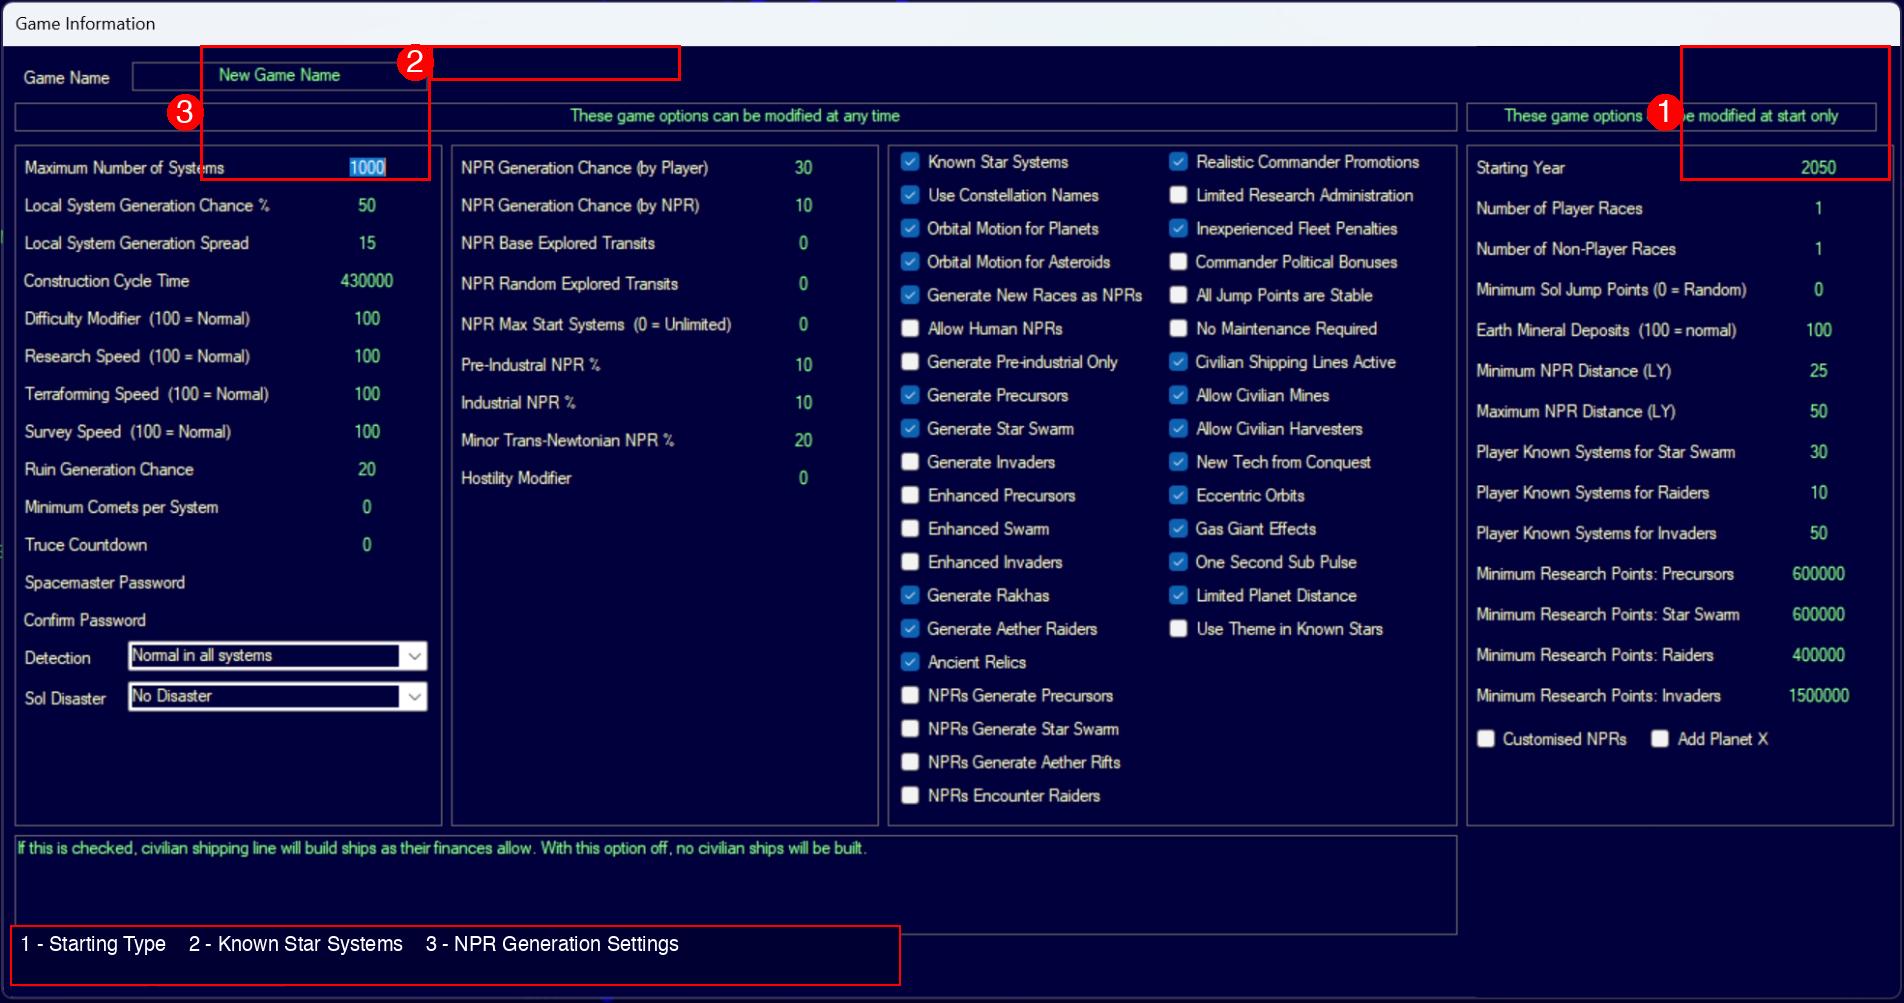
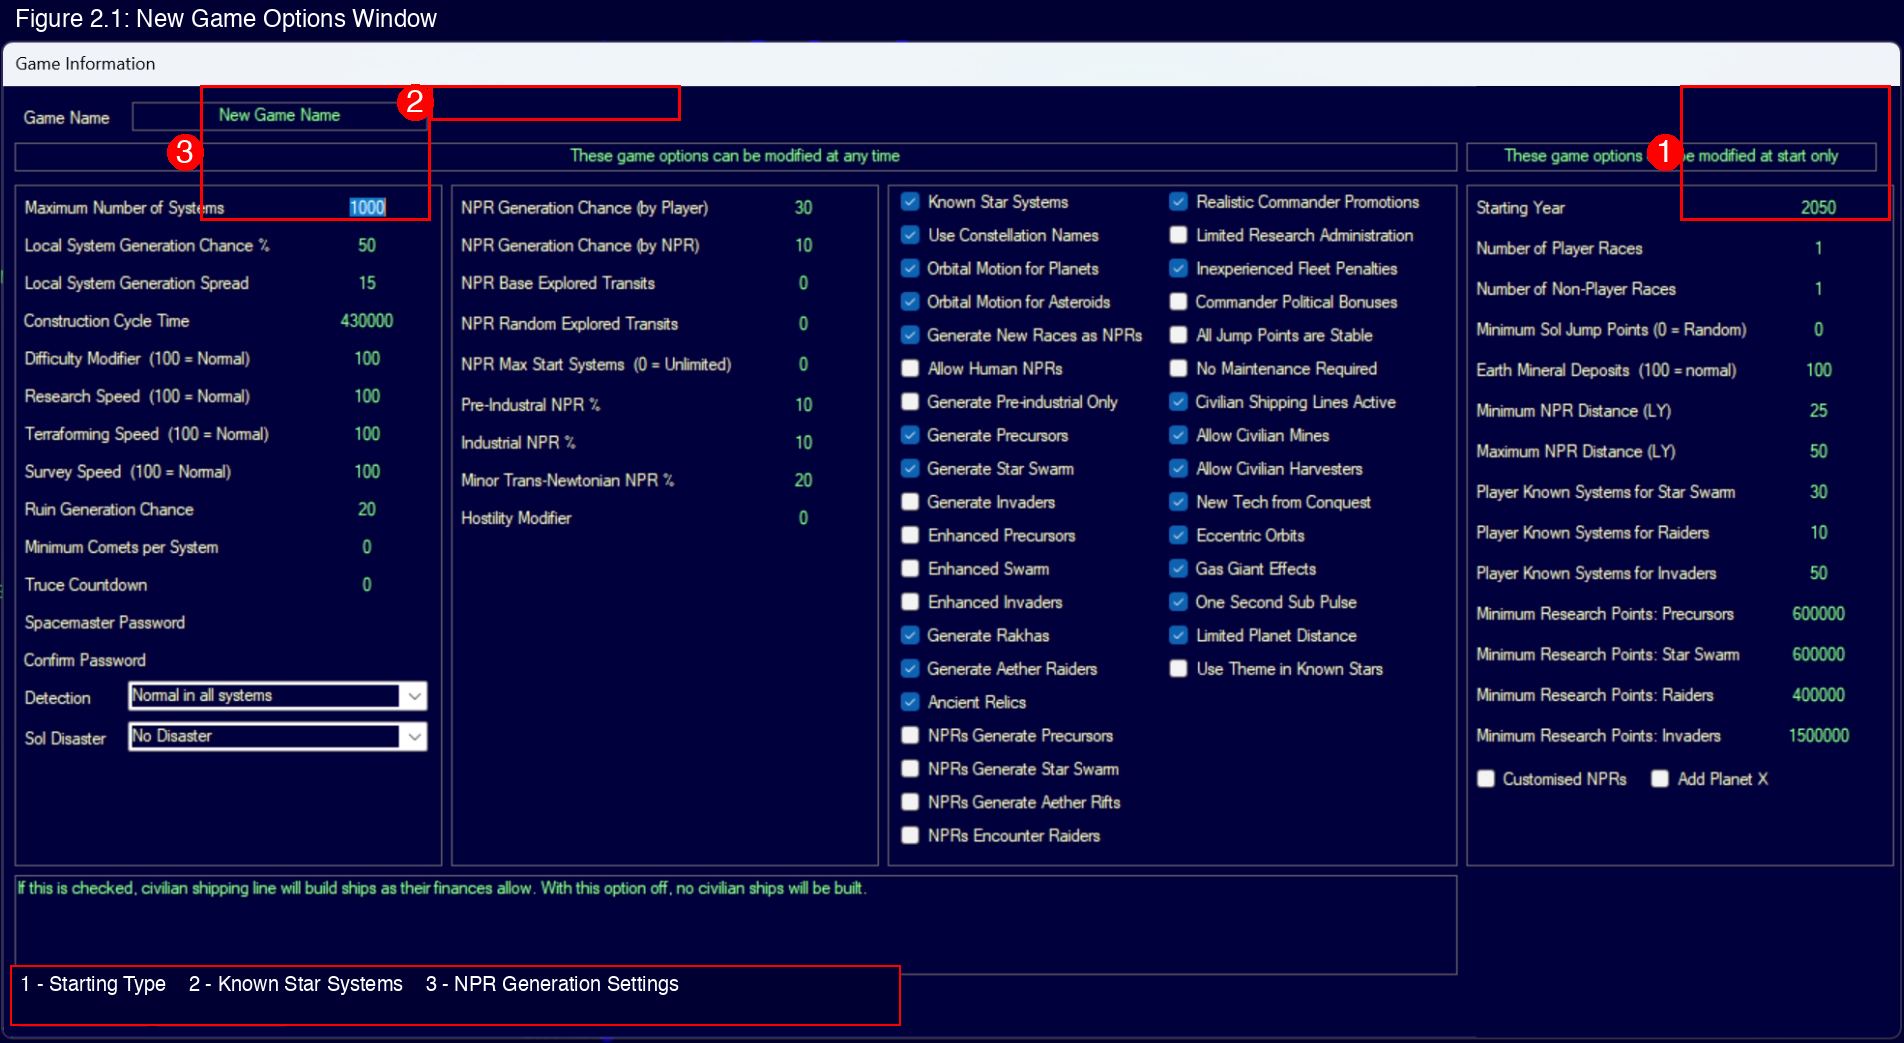
Add figure header and quality verification to screenshot workflow
Screenshot updates:
- Add "Figure 2.1: New Game Options Window" header to image
- Remove redundant "Key areas" text from markdown (now in image legend)

Project instructions updates:
- Add figure header requirement to annotation workflow
- Add step 4: Verify quality and accuracy
- Add Quality Verification Checklist
- Renumber steps 5-8

Changed region(s): [[0.0, 0.0, 1.0, 0.8654], [0.0, 0.8963, 0.4648, 0.9581], [0.4958, 0.9272, 0.7437, 0.9581]]

diff --git a/.claude/CLAUDE.md b/.claude/CLAUDE.md
@@ -259,11 +259,21 @@ When a user uploads a screenshot to an issue:
    from PIL import Image, ImageDraw, ImageFont
 
    img = Image.open('/tmp/screenshot-base.png')
-   draw = ImageDraw.Draw(img)
-   font = ImageFont.truetype('/System/Library/Fonts/Helvetica.ttc', 32)
 
-   # Draw box
-   draw.rectangle((x1, y1, x2, y2), outline='#FF0000', width=3)
+   # Add figure header (expand canvas)
+   header_height = 40
+   new_img = Image.new('RGB', (img.width, img.height + header_height), '#000033')
+   new_img.paste(img, (0, header_height))
+   draw = ImageDraw.Draw(new_img)
+
+   font = ImageFont.truetype('/System/Library/Fonts/Helvetica.ttc', 32)
+   font_header = ImageFont.truetype('/System/Library/Fonts/Helvetica.ttc', 24)
+
+   # Draw figure header
+   draw.text((15, 8), "Figure X.Y: Description", fill='white', font=font_header)
+
+   # Draw box (adjust Y coordinates by +header_height)
+   draw.rectangle((x1, y1 + header_height, x2, y2 + header_height), outline='#FF0000', width=3)
 
    # Draw numbered circle
    draw.ellipse([cx-18, cy-18, cx+18, cy+18], fill='#FF0000')
@@ -273,22 +283,27 @@ When a user uploads a screenshot to an issue:
    draw.rectangle([10, 930, 700, 985], fill='#000033', outline='#FF0000')
    draw.text((20, 940), "1 - Label", fill='white', font=font_small)
 
-   img.save('/tmp/screenshot-annotated.png')
+   new_img.save('/tmp/screenshot-annotated.png')
    ```
 
-4. **Copy to proper location:**
+4. **Verify quality and accuracy:**
+   - View the annotated image using `Read` tool
+   - Confirm boxes highlight the correct UI elements
+   - Verify callout numbers are visible and properly positioned
+   - Check figure header text is correct
+   - If annotations are misaligned, adjust coordinates and regenerate
+
+6. **Copy to proper location:**
    ```bash
    cp /tmp/screenshot-annotated.png images/screenshots/[chapter]/[section]-[name].png
    ```
 
-5. **Add to manual section:**
+7. **Add to manual section:**
    ```markdown
-   ![Description](../images/screenshots/[chapter]/[section]-[name].png)
-
-   **Key areas:** 1 - First area, 2 - Second area, 3 - Third area
+   ![Figure X.Y: Description](../images/screenshots/[chapter]/[section]-[name].png)
    ```
 
-6. **Commit with issue closure:**
+8. **Commit with issue closure:**
    ```bash
    git add -A && git commit -m "Add screenshot for Section X.Y
 
@@ -297,10 +312,21 @@ When a user uploads a screenshot to an issue:
 
 ### Annotation Guidelines
 
+- **Figure header:** "Figure X.Y: Description" at top, white text on dark background (#000033)
 - **Box color:** Red (#FF0000), 3px stroke
 - **Callout circles:** Red fill, 18px radius, white number
 - **Legend:** Dark background bar at bottom with callout explanations
 - **Font:** System Helvetica or similar sans-serif
+
+### Quality Verification Checklist
+
+Before committing a screenshot, verify:
+- [ ] Figure header displays correct section number and description
+- [ ] Annotation boxes correctly highlight the intended UI elements
+- [ ] Callout numbers (1, 2, 3) are visible and not obscured
+- [ ] Legend text matches the callout descriptions
+- [ ] Image is not blurry or distorted
+- [ ] All text is legible at normal viewing size
 
 ### Markdown Reference
 

diff --git a/2-game-setup/2.1-new-game-options.md b/2-game-setup/2.1-new-game-options.md
@@ -18,9 +18,7 @@ When creating a new game in Aurora C#, you begin with the Game Information windo
 
 The center columns share the header **"These game options can be modified at any time"** while the far right column has the header **"These game options can be modified at start only"** — indicating which settings can be changed mid-game versus only at game creation.
 
-![New Game Options Window](../images/screenshots/2-game-setup/2.1-new-game-options.png)
-
-**Key areas:** 1 - Starting Type (Conventional/Space start), 2 - Known Star Systems options, 3 - NPR Generation Settings
+![Figure 2.1: New Game Options Window](../images/screenshots/2-game-setup/2.1-new-game-options.png)
 
 This section documents each setting in the order it appears on screen from top to bottom within each column.
 
